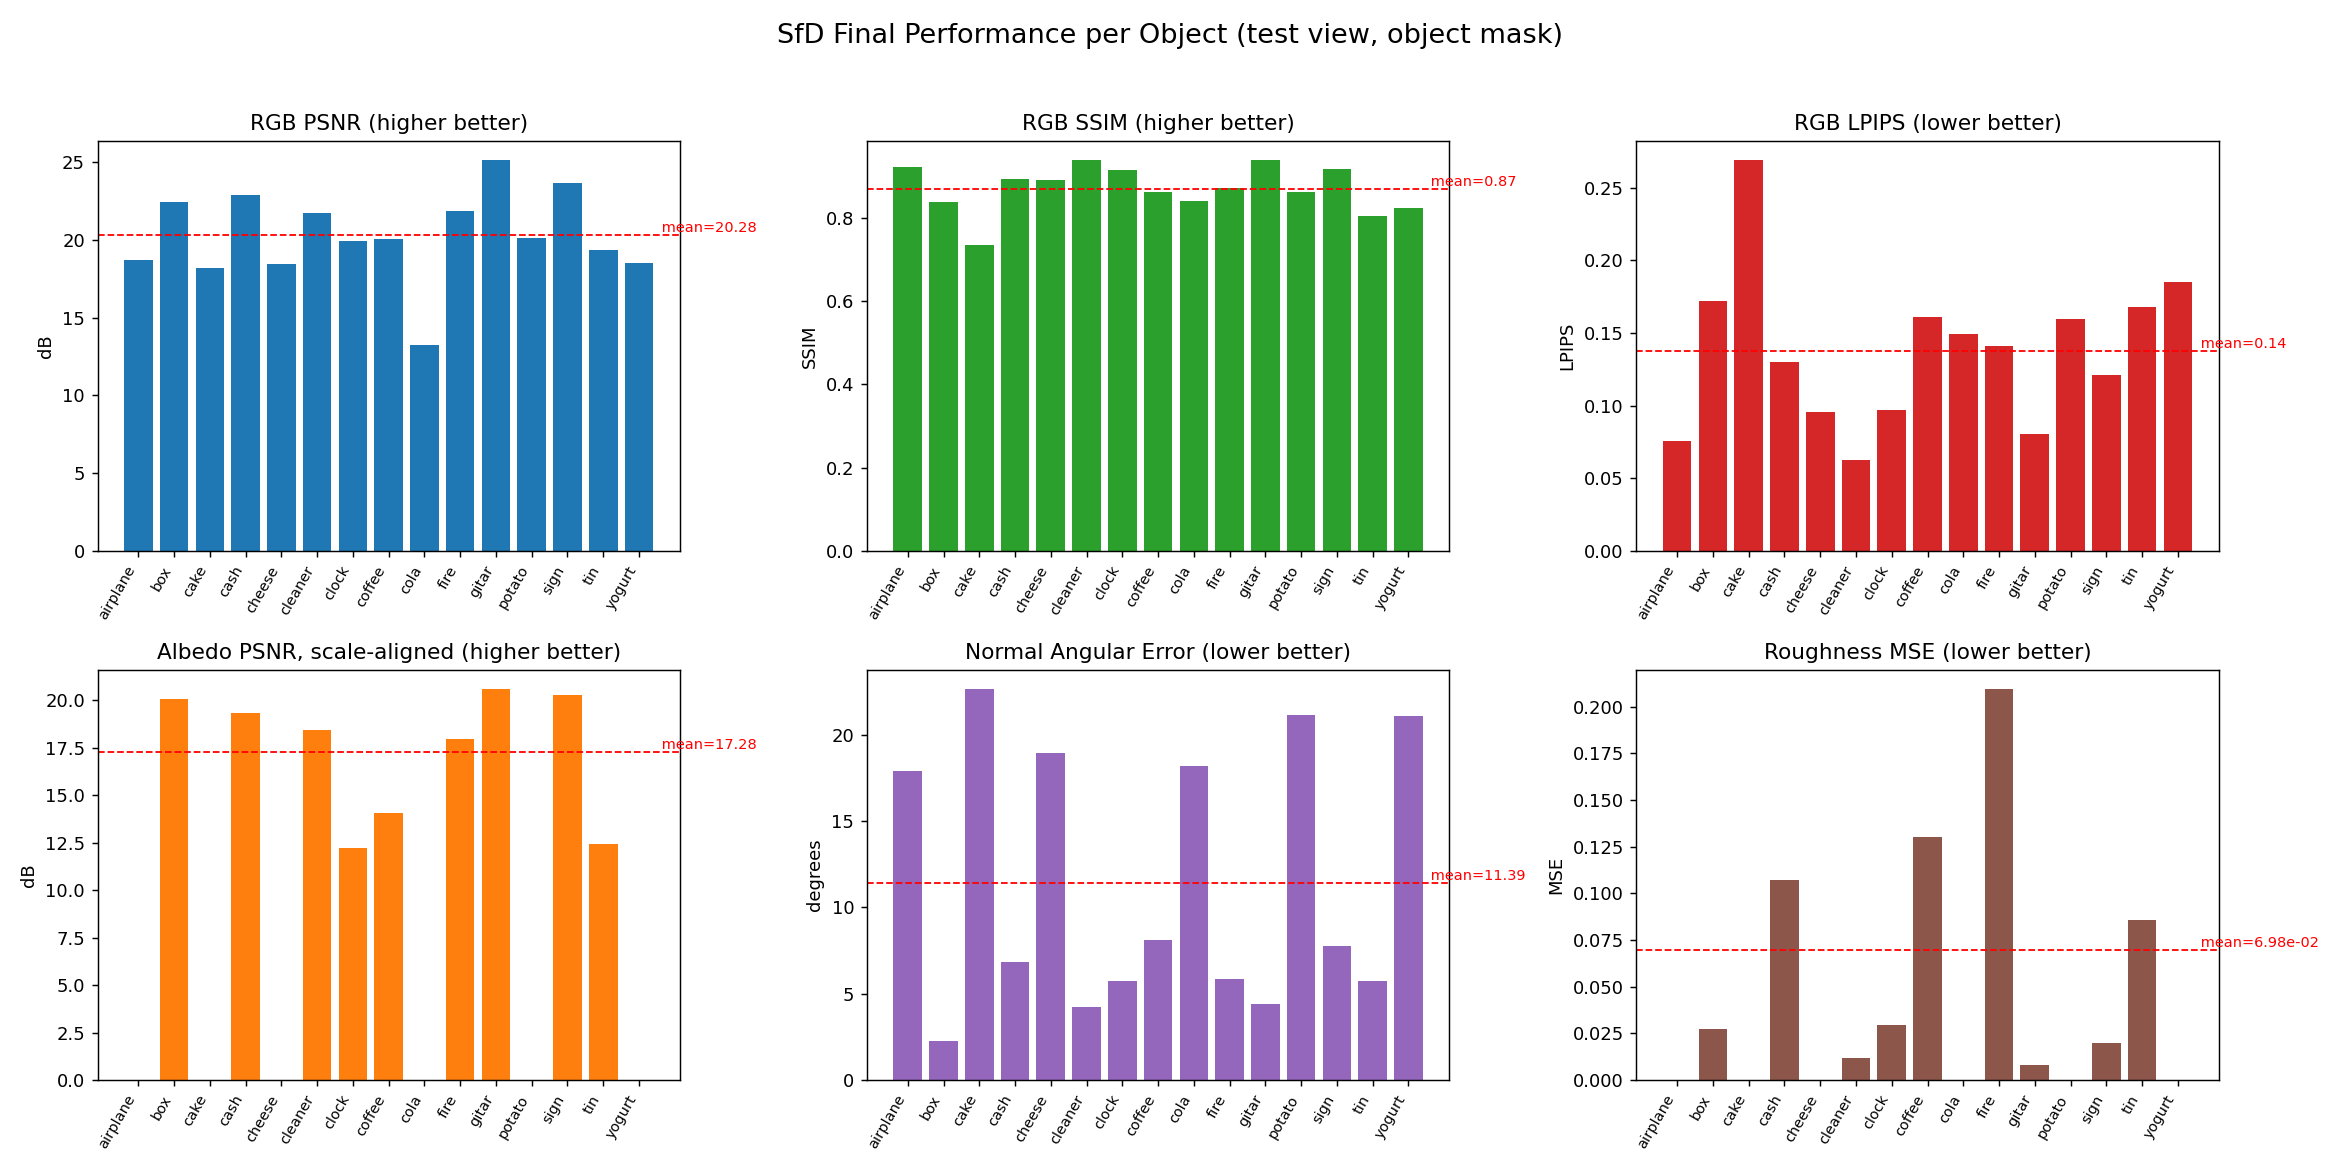
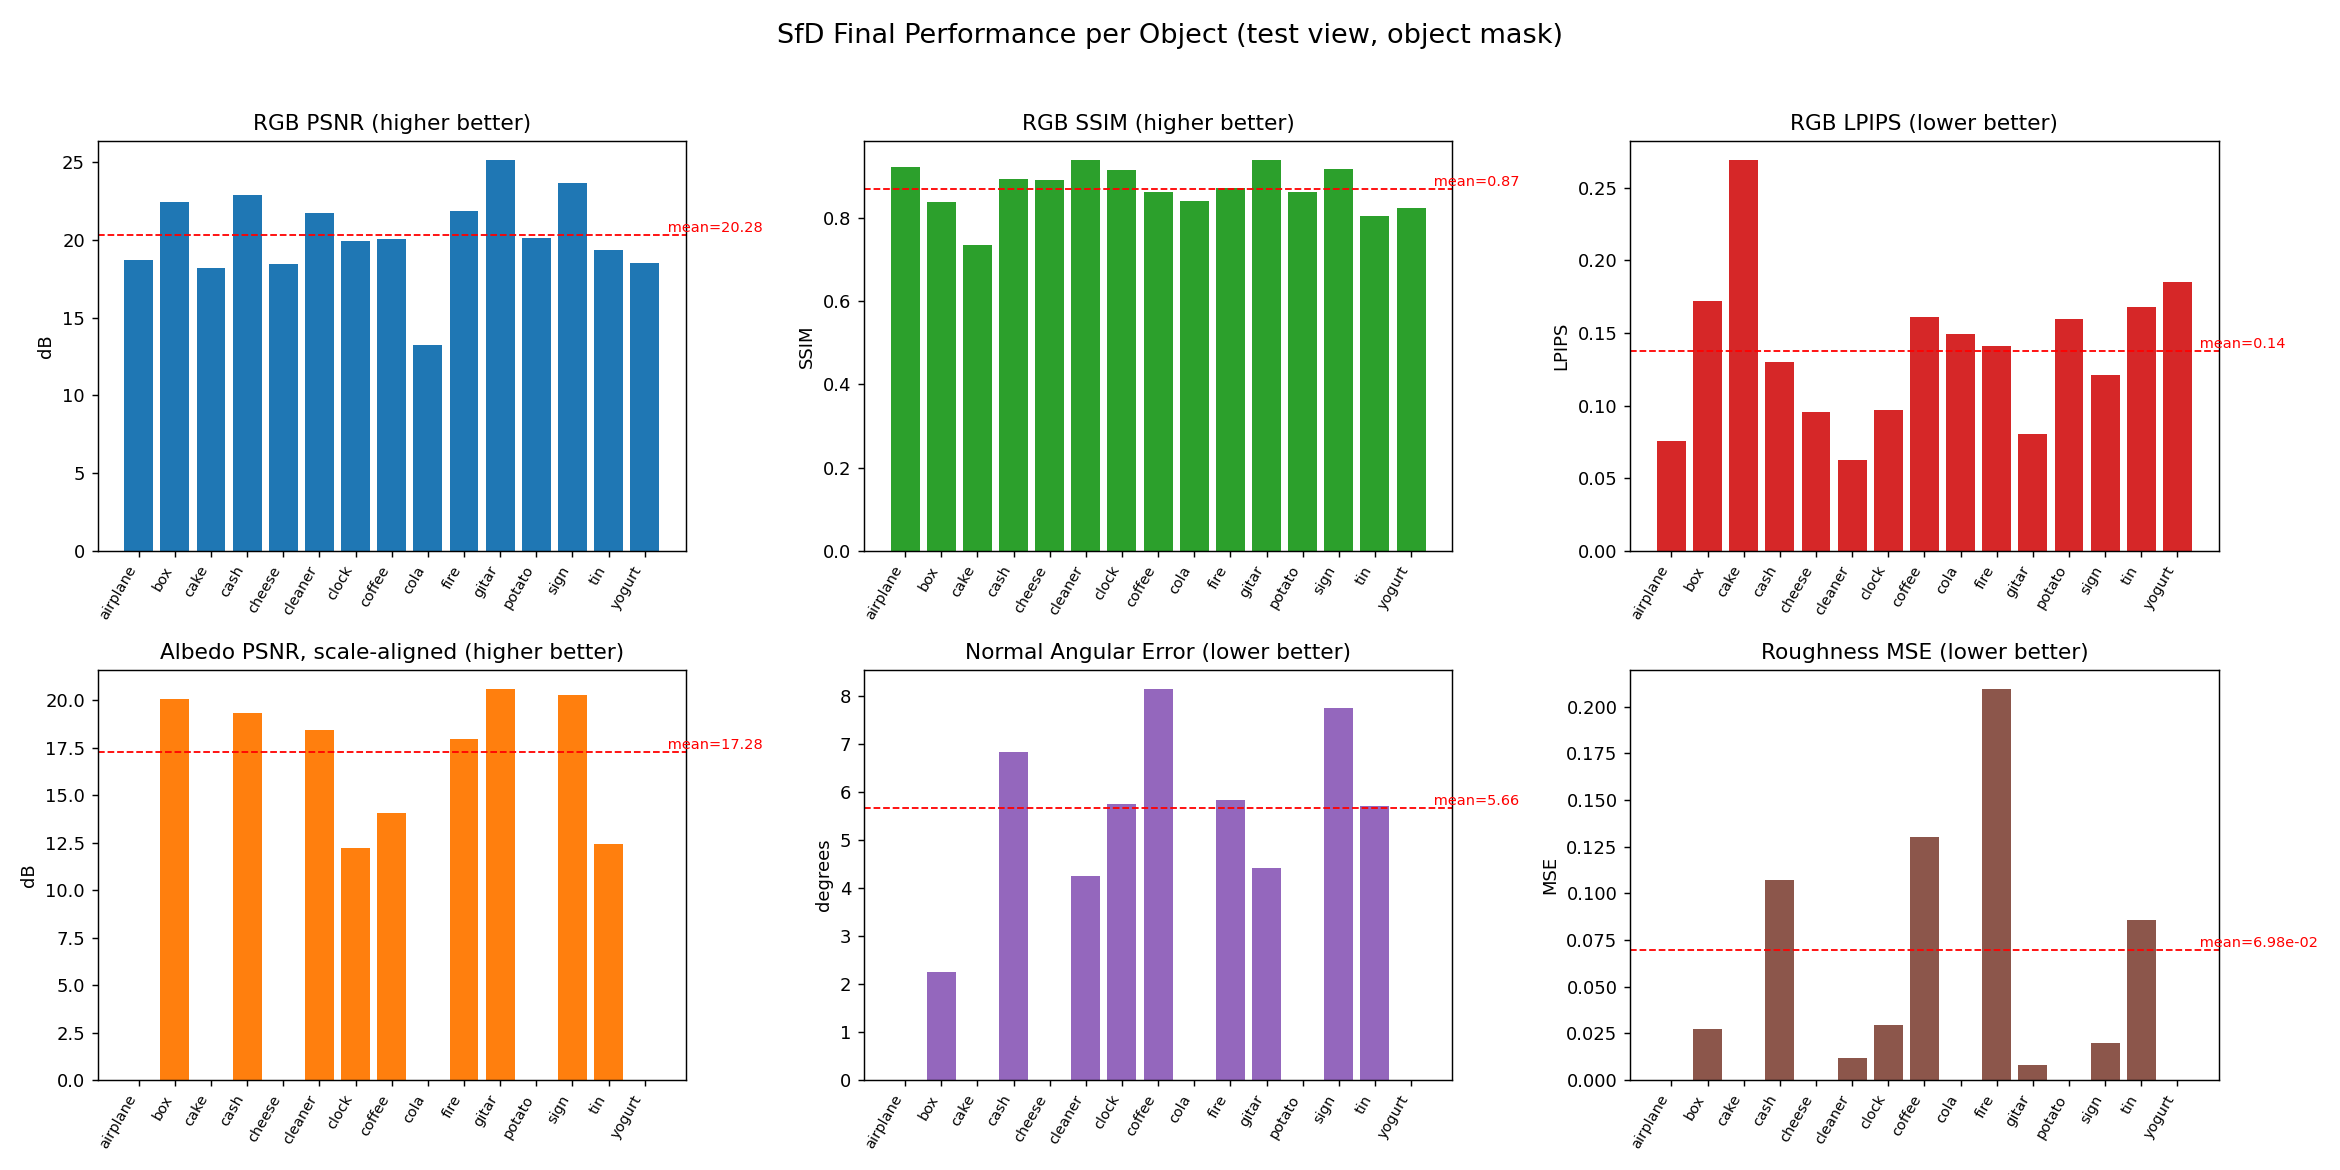
update report

diff --git a/index.html b/index.html
@@ -71,8 +71,8 @@
 <table>
 <thead><tr><th>Object</th><th>RGB PSNR↑</th><th>RGB SSIM↑</th><th>RGB LPIPS↓</th><th>Albedo PSNR↑ (aligned)</th><th>Albedo SSIM↑ (aligned)</th><th>Albedo LPIPS↓ (aligned)</th><th>Normal Err↓ (°)</th><th>Roughness MSE↓</th><th>Env-map MSE↓</th><th>Train time</th></tr></thead>
 <tbody>
-<tr><td class="obj-name"><a href="#obj-airplane">airplane</a></td><td>18.72</td><td>0.921</td><td>0.075</td><td>—</td><td>—</td><td>—</td><td>17.91</td><td>—</td><td>0.178</td><td>10.06 h</td></tr><tr><td class="obj-name"><a href="#obj-box">box</a></td><td>22.44</td><td>0.838</td><td>0.172</td><td>20.07</td><td>0.798</td><td>0.194</td><td>2.25</td><td>2.72e-02</td><td>0.208</td><td>10.97 h</td></tr><tr><td class="obj-name"><a href="#obj-cake">cake</a></td><td>18.17</td><td>0.735</td><td>0.269</td><td>—</td><td>—</td><td>—</td><td>22.63</td><td>—</td><td>0.160</td><td>10.85 h</td></tr><tr><td class="obj-name"><a href="#obj-cash">cash</a></td><td>22.90</td><td>0.894</td><td>0.130</td><td>19.36</td><td>0.844</td><td>0.167</td><td>6.84</td><td>1.07e-01</td><td>0.101</td><td>11.07 h</td></tr><tr><td class="obj-name"><a href="#obj-cheese">cheese</a></td><td>18.47</td><td>0.891</td><td>0.096</td><td>—</td><td>—</td><td>—</td><td>18.96</td><td>—</td><td>0.119</td><td>10.03 h</td></tr><tr><td class="obj-name"><a href="#obj-cleaner">cleaner</a></td><td>21.71</td><td>0.937</td><td>0.062</td><td>18.45</td><td>0.924</td><td>0.075</td><td>4.25</td><td>1.17e-02</td><td>0.100</td><td>10.67 h</td></tr><tr><td class="obj-name"><a href="#obj-clock">clock</a></td><td>19.93</td><td>0.914</td><td>0.097</td><td>12.24</td><td>0.864</td><td>0.114</td><td>5.74</td><td>2.93e-02</td><td>0.079</td><td>10.70 h</td></tr><tr><td class="obj-name"><a href="#obj-coffee">coffee</a></td><td>20.04</td><td>0.861</td><td>0.161</td><td>14.06</td><td>0.717</td><td>0.202</td><td>8.14</td><td>1.30e-01</td><td>0.084</td><td>10.61 h</td></tr><tr><td class="obj-name"><a href="#obj-cola">cola</a></td><td>13.27</td><td>0.839</td><td>0.149</td><td>—</td><td>—</td><td>—</td><td>18.18</td><td>—</td><td>0.124</td><td>10.38 h</td></tr><tr><td class="obj-name"><a href="#obj-fire">fire</a></td><td>21.84</td><td>0.870</td><td>0.141</td><td>17.97</td><td>0.848</td><td>0.162</td><td>5.83</td><td>2.09e-01</td><td>0.129</td><td>10.98 h</td></tr><tr><td class="obj-name"><a href="#obj-gitar">gitar</a></td><td>25.11</td><td>0.938</td><td>0.081</td><td>20.58</td><td>0.906</td><td>0.092</td><td>4.42</td><td>7.97e-03</td><td>0.071</td><td>10.67 h</td></tr><tr><td class="obj-name"><a href="#obj-potato">potato</a></td><td>20.13</td><td>0.863</td><td>0.160</td><td>—</td><td>—</td><td>—</td><td>21.16</td><td>—</td><td>0.279</td><td>10.84 h</td></tr><tr><td class="obj-name"><a href="#obj-sign">sign</a></td><td>23.64</td><td>0.917</td><td>0.121</td><td>20.29</td><td>0.897</td><td>0.149</td><td>7.76</td><td>1.99e-02</td><td>0.095</td><td>10.81 h</td></tr><tr><td class="obj-name"><a href="#obj-tin">tin</a></td><td>19.34</td><td>0.804</td><td>0.168</td><td>12.46</td><td>0.680</td><td>0.213</td><td>5.71</td><td>8.55e-02</td><td>0.187</td><td>10.83 h</td></tr><tr><td class="obj-name"><a href="#obj-yogurt">yogurt</a></td><td>18.48</td><td>0.823</td><td>0.185</td><td>—</td><td>—</td><td>—</td><td>21.08</td><td>—</td><td>0.143</td><td>11.07 h</td></tr>
-<tr class="mean-row"><td class="obj-name">mean (15 objects)</td><td>20.28</td><td>0.870</td><td>0.138</td><td>17.28</td><td>0.831</td><td>0.152</td><td>11.39</td><td>6.98e-02</td><td>0.137</td><td>10.70 h</td></tr>
+<tr><td class="obj-name"><a href="#obj-airplane">airplane</a></td><td>18.72</td><td>0.921</td><td>0.075</td><td>—</td><td>—</td><td>—</td><td>—</td><td>—</td><td>0.178</td><td>10.06 h</td></tr><tr><td class="obj-name"><a href="#obj-box">box</a></td><td>22.44</td><td>0.838</td><td>0.172</td><td>20.07</td><td>0.798</td><td>0.194</td><td>2.25</td><td>2.72e-02</td><td>0.208</td><td>10.97 h</td></tr><tr><td class="obj-name"><a href="#obj-cake">cake</a></td><td>18.17</td><td>0.735</td><td>0.269</td><td>—</td><td>—</td><td>—</td><td>—</td><td>—</td><td>0.160</td><td>10.85 h</td></tr><tr><td class="obj-name"><a href="#obj-cash">cash</a></td><td>22.90</td><td>0.894</td><td>0.130</td><td>19.36</td><td>0.844</td><td>0.167</td><td>6.84</td><td>1.07e-01</td><td>0.101</td><td>11.07 h</td></tr><tr><td class="obj-name"><a href="#obj-cheese">cheese</a></td><td>18.47</td><td>0.891</td><td>0.096</td><td>—</td><td>—</td><td>—</td><td>—</td><td>—</td><td>0.119</td><td>10.03 h</td></tr><tr><td class="obj-name"><a href="#obj-cleaner">cleaner</a></td><td>21.71</td><td>0.937</td><td>0.062</td><td>18.45</td><td>0.924</td><td>0.075</td><td>4.25</td><td>1.17e-02</td><td>0.100</td><td>10.67 h</td></tr><tr><td class="obj-name"><a href="#obj-clock">clock</a></td><td>19.93</td><td>0.914</td><td>0.097</td><td>12.24</td><td>0.864</td><td>0.114</td><td>5.74</td><td>2.93e-02</td><td>0.079</td><td>10.70 h</td></tr><tr><td class="obj-name"><a href="#obj-coffee">coffee</a></td><td>20.04</td><td>0.861</td><td>0.161</td><td>14.06</td><td>0.717</td><td>0.202</td><td>8.14</td><td>1.30e-01</td><td>0.084</td><td>10.61 h</td></tr><tr><td class="obj-name"><a href="#obj-cola">cola</a></td><td>13.27</td><td>0.839</td><td>0.149</td><td>—</td><td>—</td><td>—</td><td>—</td><td>—</td><td>0.124</td><td>10.38 h</td></tr><tr><td class="obj-name"><a href="#obj-fire">fire</a></td><td>21.84</td><td>0.870</td><td>0.141</td><td>17.97</td><td>0.848</td><td>0.162</td><td>5.83</td><td>2.09e-01</td><td>0.129</td><td>10.98 h</td></tr><tr><td class="obj-name"><a href="#obj-gitar">gitar</a></td><td>25.11</td><td>0.938</td><td>0.081</td><td>20.58</td><td>0.906</td><td>0.092</td><td>4.42</td><td>7.97e-03</td><td>0.071</td><td>10.67 h</td></tr><tr><td class="obj-name"><a href="#obj-potato">potato</a></td><td>20.13</td><td>0.863</td><td>0.160</td><td>—</td><td>—</td><td>—</td><td>—</td><td>—</td><td>0.279</td><td>10.84 h</td></tr><tr><td class="obj-name"><a href="#obj-sign">sign</a></td><td>23.64</td><td>0.917</td><td>0.121</td><td>20.29</td><td>0.897</td><td>0.149</td><td>7.76</td><td>1.99e-02</td><td>0.095</td><td>10.81 h</td></tr><tr><td class="obj-name"><a href="#obj-tin">tin</a></td><td>19.34</td><td>0.804</td><td>0.168</td><td>12.46</td><td>0.680</td><td>0.213</td><td>5.71</td><td>8.55e-02</td><td>0.187</td><td>10.83 h</td></tr><tr><td class="obj-name"><a href="#obj-yogurt">yogurt</a></td><td>18.48</td><td>0.823</td><td>0.185</td><td>—</td><td>—</td><td>—</td><td>—</td><td>—</td><td>0.143</td><td>11.07 h</td></tr>
+<tr class="mean-row"><td class="obj-name">mean (15 objects)</td><td>20.28</td><td>0.870</td><td>0.138</td><td>17.28</td><td>0.831</td><td>0.152</td><td>5.66</td><td>6.98e-02</td><td>0.137</td><td>10.70 h</td></tr>
 </tbody>
 </table>
 </div>
@@ -90,7 +90,7 @@
 
     <section class="obj-section" id="obj-airplane">
       <h3>airplane</h3>
-      <div class="stats-line">RGB PSNR 18.72 · SSIM 0.921 · LPIPS 0.075 &nbsp;|&nbsp; Albedo PSNR — (aligned) &nbsp;|&nbsp; Normal err 17.91° &nbsp;|&nbsp; Roughness MSE — &nbsp;|&nbsp; Train 10.06 h</div>
+      <div class="stats-line">RGB PSNR 18.72 · SSIM 0.921 · LPIPS 0.075 &nbsp;|&nbsp; Albedo PSNR — (aligned) &nbsp;|&nbsp; Normal err —° &nbsp;|&nbsp; Roughness MSE — &nbsp;|&nbsp; Train 10.06 h</div>
       <div class="img-row">
         <div class="img-pair">
           <div class="img-pair-label">RGB</div>
@@ -170,7 +170,7 @@
     </section>
     <section class="obj-section" id="obj-cake">
       <h3>cake</h3>
-      <div class="stats-line">RGB PSNR 18.17 · SSIM 0.735 · LPIPS 0.269 &nbsp;|&nbsp; Albedo PSNR — (aligned) &nbsp;|&nbsp; Normal err 22.63° &nbsp;|&nbsp; Roughness MSE — &nbsp;|&nbsp; Train 10.85 h</div>
+      <div class="stats-line">RGB PSNR 18.17 · SSIM 0.735 · LPIPS 0.269 &nbsp;|&nbsp; Albedo PSNR — (aligned) &nbsp;|&nbsp; Normal err —° &nbsp;|&nbsp; Roughness MSE — &nbsp;|&nbsp; Train 10.85 h</div>
       <div class="img-row">
         <div class="img-pair">
           <div class="img-pair-label">RGB</div>
@@ -250,7 +250,7 @@
     </section>
     <section class="obj-section" id="obj-cheese">
       <h3>cheese</h3>
-      <div class="stats-line">RGB PSNR 18.47 · SSIM 0.891 · LPIPS 0.096 &nbsp;|&nbsp; Albedo PSNR — (aligned) &nbsp;|&nbsp; Normal err 18.96° &nbsp;|&nbsp; Roughness MSE — &nbsp;|&nbsp; Train 10.03 h</div>
+      <div class="stats-line">RGB PSNR 18.47 · SSIM 0.891 · LPIPS 0.096 &nbsp;|&nbsp; Albedo PSNR — (aligned) &nbsp;|&nbsp; Normal err —° &nbsp;|&nbsp; Roughness MSE — &nbsp;|&nbsp; Train 10.03 h</div>
       <div class="img-row">
         <div class="img-pair">
           <div class="img-pair-label">RGB</div>
@@ -410,7 +410,7 @@
     </section>
     <section class="obj-section" id="obj-cola">
       <h3>cola</h3>
-      <div class="stats-line">RGB PSNR 13.27 · SSIM 0.839 · LPIPS 0.149 &nbsp;|&nbsp; Albedo PSNR — (aligned) &nbsp;|&nbsp; Normal err 18.18° &nbsp;|&nbsp; Roughness MSE — &nbsp;|&nbsp; Train 10.38 h</div>
+      <div class="stats-line">RGB PSNR 13.27 · SSIM 0.839 · LPIPS 0.149 &nbsp;|&nbsp; Albedo PSNR — (aligned) &nbsp;|&nbsp; Normal err —° &nbsp;|&nbsp; Roughness MSE — &nbsp;|&nbsp; Train 10.38 h</div>
       <div class="img-row">
         <div class="img-pair">
           <div class="img-pair-label">RGB</div>
@@ -530,7 +530,7 @@
     </section>
     <section class="obj-section" id="obj-potato">
       <h3>potato</h3>
-      <div class="stats-line">RGB PSNR 20.13 · SSIM 0.863 · LPIPS 0.160 &nbsp;|&nbsp; Albedo PSNR — (aligned) &nbsp;|&nbsp; Normal err 21.16° &nbsp;|&nbsp; Roughness MSE — &nbsp;|&nbsp; Train 10.84 h</div>
+      <div class="stats-line">RGB PSNR 20.13 · SSIM 0.863 · LPIPS 0.160 &nbsp;|&nbsp; Albedo PSNR — (aligned) &nbsp;|&nbsp; Normal err —° &nbsp;|&nbsp; Roughness MSE — &nbsp;|&nbsp; Train 10.84 h</div>
       <div class="img-row">
         <div class="img-pair">
           <div class="img-pair-label">RGB</div>
@@ -650,7 +650,7 @@
     </section>
     <section class="obj-section" id="obj-yogurt">
       <h3>yogurt</h3>
-      <div class="stats-line">RGB PSNR 18.48 · SSIM 0.823 · LPIPS 0.185 &nbsp;|&nbsp; Albedo PSNR — (aligned) &nbsp;|&nbsp; Normal err 21.08° &nbsp;|&nbsp; Roughness MSE — &nbsp;|&nbsp; Train 11.07 h</div>
+      <div class="stats-line">RGB PSNR 18.48 · SSIM 0.823 · LPIPS 0.185 &nbsp;|&nbsp; Albedo PSNR — (aligned) &nbsp;|&nbsp; Normal err —° &nbsp;|&nbsp; Roughness MSE — &nbsp;|&nbsp; Train 11.07 h</div>
       <div class="img-row">
         <div class="img-pair">
           <div class="img-pair-label">RGB</div>

diff --git a/build_report.py b/build_report.py
@@ -27,17 +27,17 @@ SAMPLES = ["airplane", "box", "cake", "cash", "cheese", "cleaner", "clock",
            "coffee", "cola", "fire", "gitar", "potato", "sign", "tin", "yogurt"]
 
 # Metrics/images that only exist for synthetic samples: real-world captures have no
-# albedo/roughness ground truth, so the pipeline substitutes a blank placeholder for it
-# (see Dataset.has_material_gt in SfD/datasets/neus_dataset.py) instead of a real photo.
+# albedo/roughness/normal ground truth, so the pipeline substitutes a blank placeholder
+# for it (see Dataset.has_material_gt in SfD/datasets/neus_dataset.py) instead of a real photo.
 ALBEDO_ROUGHNESS_METRIC_KEYS = [
     "albedo_psnr", "albedo_ssim", "albedo_lpips",
     "albedo_align_psnr", "albedo_align_ssim", "albedo_align_lpips",
-    "roughness_mse",
+    "roughness_mse", "normal_abs_deg",
 ]
 # metallic ground truth is never produced by this model (see metallic_gt=None in
 # trainer/train_material.py) regardless of sample, so it's always a placeholder
 NO_GT_IMAGE_STEMS_ALWAYS = ["metal_gt"]
-NO_GT_IMAGE_STEMS_REAL_WORLD = ["diffuse_gt", "rough_gt"]
+NO_GT_IMAGE_STEMS_REAL_WORLD = ["diffuse_gt", "rough_gt", "normal_gt"]
 
 
 def has_material_gt(sample: str) -> bool:
